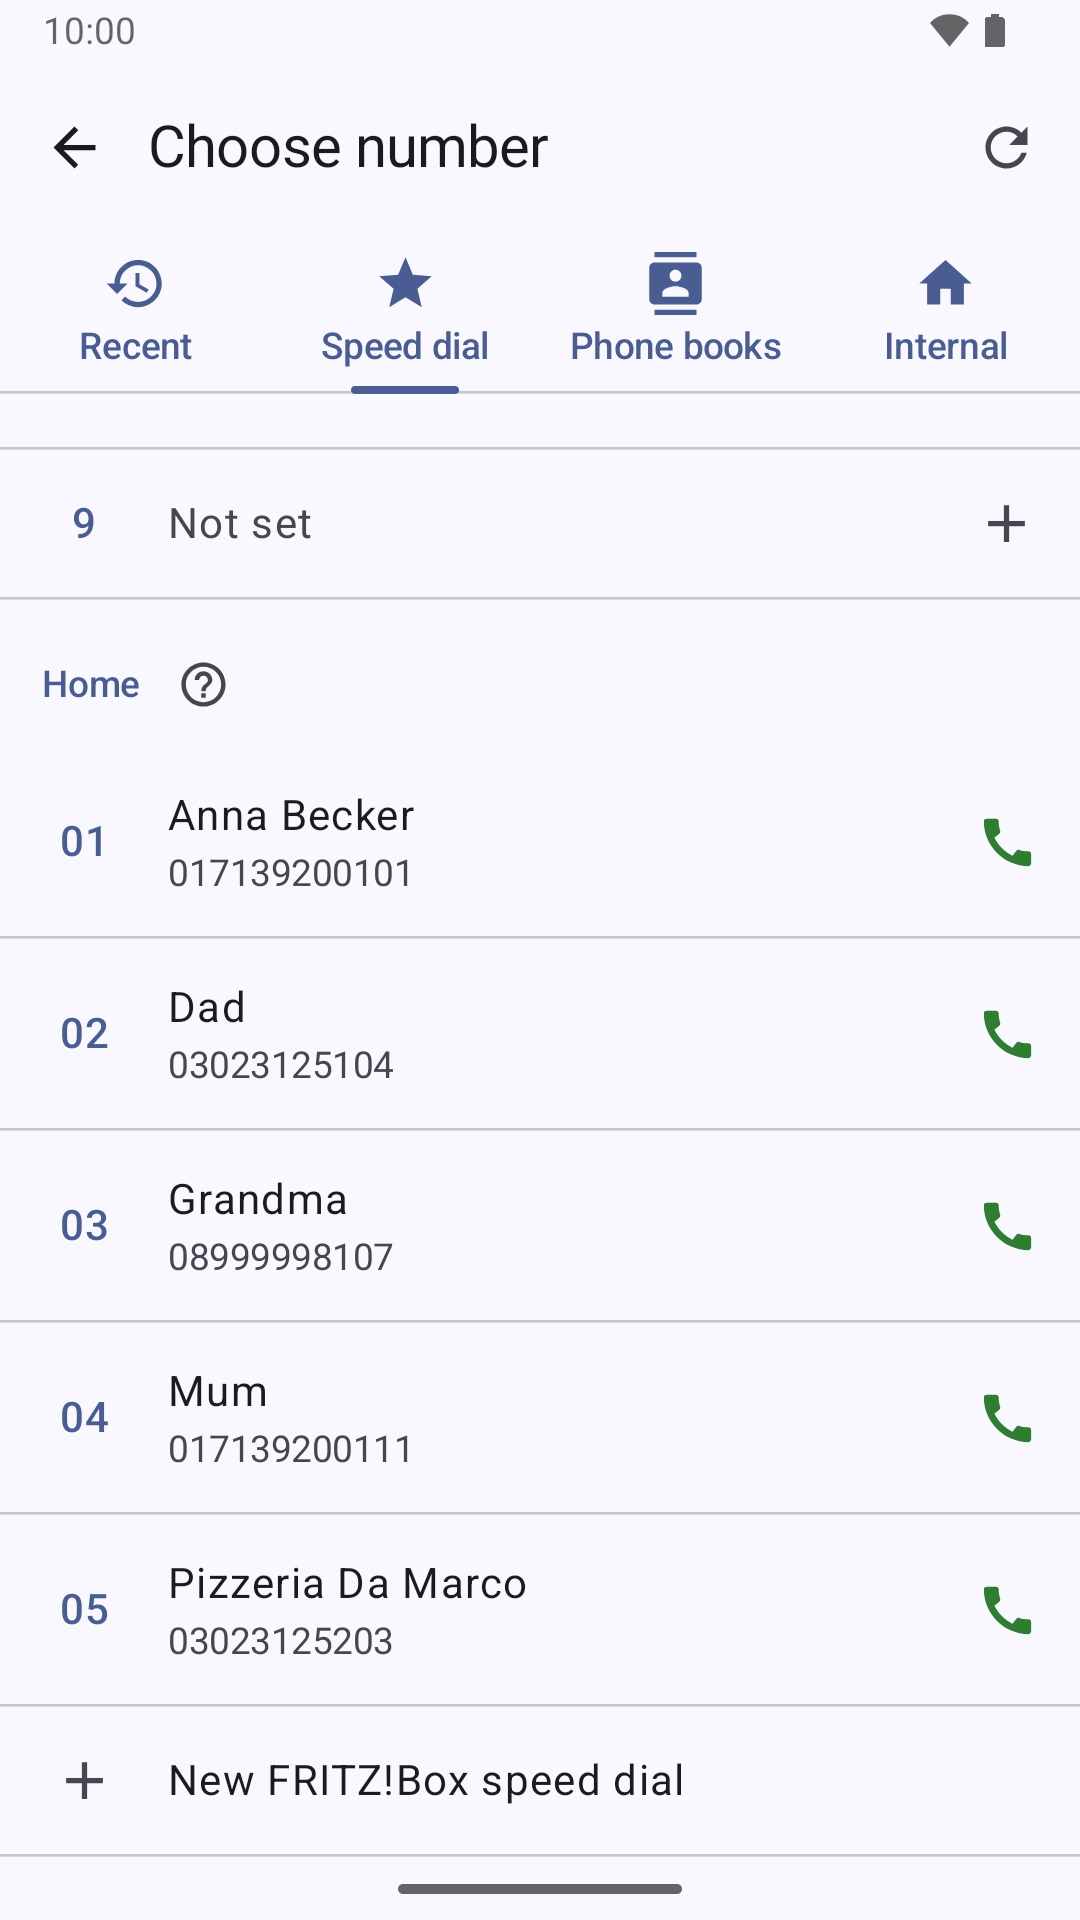
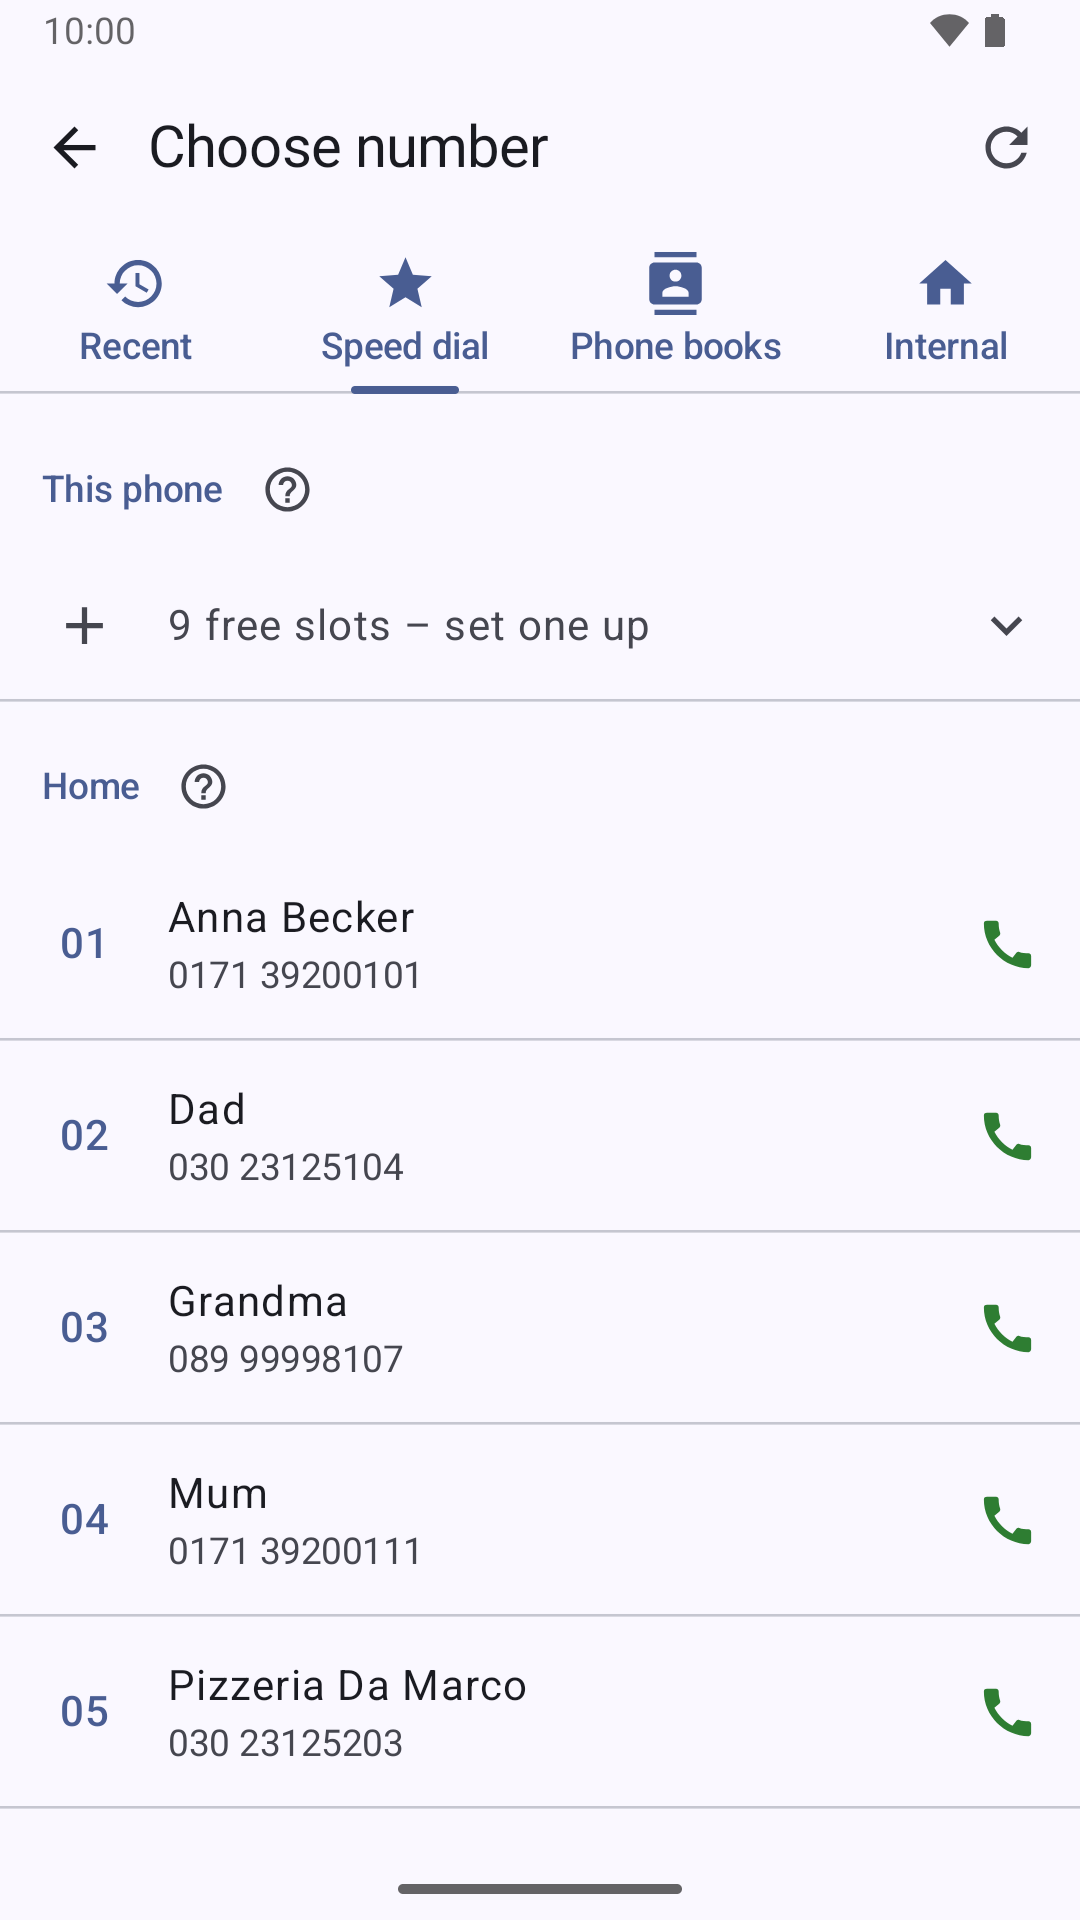
version 1.9.0 (version code 13): its "What's new" note in all seven languages (a typo fixed at the cursor, Try again after busy or no answer, numbers grouped everywhere, Copy number, the quiet note when the box does not answer for a moment, the folded free speed dial slots), store release notes in E

diff --git a/docs/web/index.html b/docs/web/index.html
@@ -53,9 +53,9 @@
 
   <h2>What it does</h2>
   <div class="grid">
-    <div class="card"><h3>Dial help</h3><p>Uses the FRITZ!Box's TR-064 interface: the box rings your handset first, then dials the target number.</p></div>
+    <div class="card"><h3>Dial help</h3><p>Uses the FRITZ!Box's TR-064 interface: the box rings your handset first, then dials the target number. A typo? Tap right after it in the number and fix it there.</p></div>
     <div class="card"><h3>Phone books &amp; recent calls</h3><p>Pick numbers from the box's phone books and call list – and optionally from your phone's own contacts. Recent calls by day, the missed ones at a tap, and a call button on every number.</p></div>
-    <div class="card"><h3>Live call status</h3><p>See whether the handset is ringing, the call is connected, and how long it lasted.</p></div>
+    <div class="card"><h3>Live call status</h3><p>See whether the handset is ringing, the call is connected, and how long it lasted. Busy? Try again with a tap.</p></div>
     <div class="card"><h3>Speed dial</h3><p>Your own speed dials 1–9, plus the FRITZ!Box speed dials 00–99 you already know from <code>**7</code>. Removed by mistake? Undo.</p></div>
     <div class="card"><h3>Several boxes</h3><p>Home and office? Pickelhaube recognises which FRITZ!Box is in the current network and uses that one.</p></div>
     <div class="card"><h3>Call forwarding</h3><p>Switch the forwardings set up on your box on and off – also from a quick settings tile.</p></div>

diff --git a/app/src/main/java/org/rustygnome/pickelhaube/data/WhatsNew.kt b/app/src/main/java/org/rustygnome/pickelhaube/data/WhatsNew.kt
@@ -19,6 +19,7 @@ object WhatsNew {
         8 to Note("1.6.0", R.array.whats_new_8),
         11 to Note("1.7.0", R.array.whats_new_11),
         12 to Note("1.8.0", R.array.whats_new_12),
+        13 to Note("1.9.0", R.array.whats_new_13),
     )
 
     /** At most this many points at once, when several versions were skipped. */
